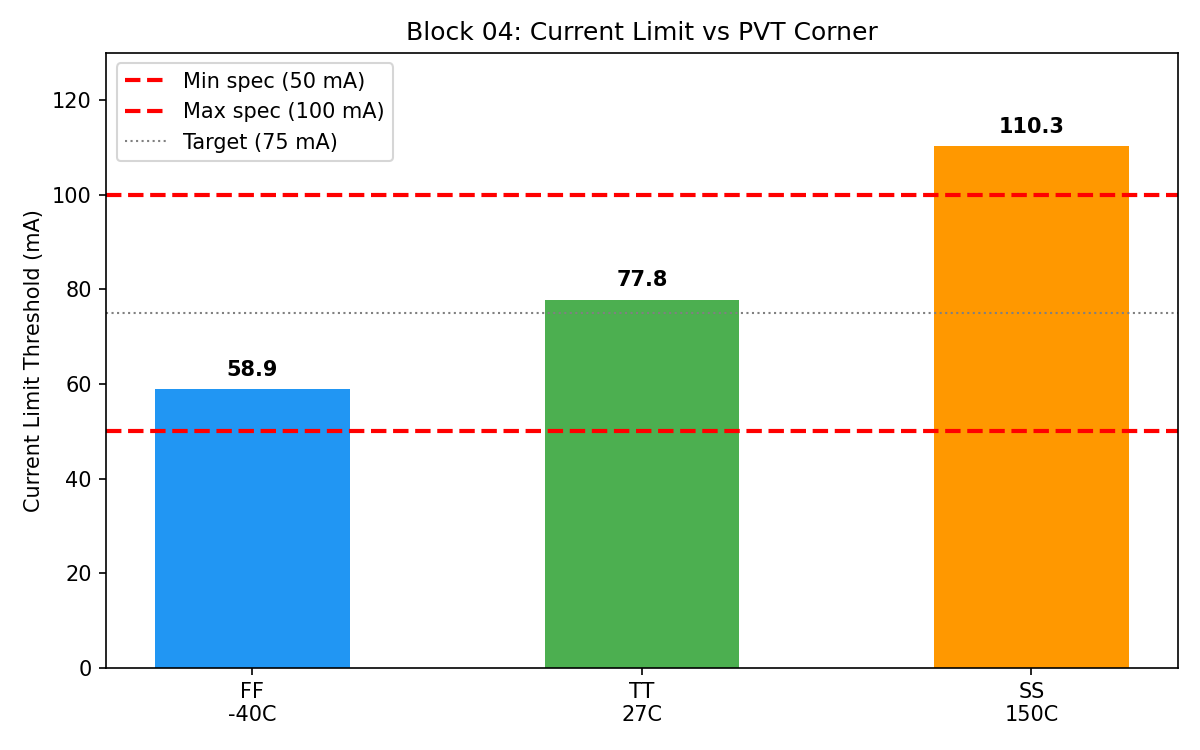
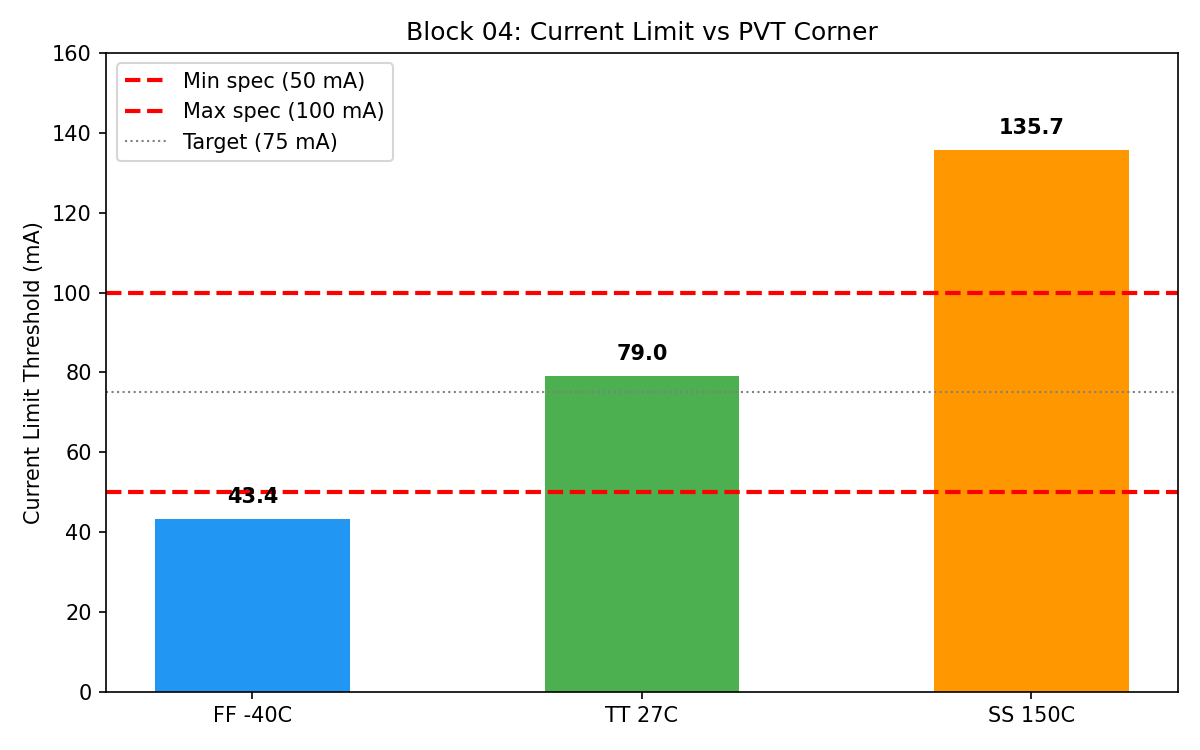
exp(04): add I-V curve TB and plots, cleanup
Added tb_ilim_iv.spice for I-V characterization.
Updated plot_all.py with I-V curve and PVT bar chart.
Design unchanged: 9/9 PASS, ilim_ss150=135.7mA.

diff --git a/pvdd_regulator/04_current_limiter/plot_all.py b/pvdd_regulator/04_current_limiter/plot_all.py
@@ -1,9 +1,6 @@
 #!/usr/bin/env python3
 """plot_all.py — Generate all required plots for Block 04 Current Limiter"""
-
-import subprocess
 import sys
-
 try:
     import matplotlib
     matplotlib.use('Agg')
@@ -13,24 +10,47 @@ except ImportError:
     print("matplotlib/numpy not available — skipping plots")
     sys.exit(0)
 
+# ===== I-V Curve =====
+try:
+    data = np.loadtxt('ilim_iv_data')
+    vgate = data[:, 0]  # Gate drive voltage
+    iload = data[:, 1] * 1000  # Current in mA
+
+    fig, ax = plt.subplots(figsize=(8, 5))
+    ax.plot(vgate, iload, 'b-', linewidth=2)
+    ax.axhline(y=79, color='red', linestyle='--', alpha=0.7, label='Limit ~79 mA')
+    ax.set_xlabel('Gate Drive Voltage (V)')
+    ax.set_ylabel('Load Current (mA)')
+    ax.set_title('Block 04: I-V Curve — Current Limiting')
+    ax.set_xlim(7, 0)
+    ax.set_ylim(0, 100)
+    ax.legend()
+    ax.grid(True, alpha=0.3)
+    plt.tight_layout()
+    plt.savefig('ilim_iv_curve.png', dpi=150)
+    print("Saved ilim_iv_curve.png")
+except Exception as e:
+    print(f"I-V plot skipped: {e}")
+
 # ===== PVT Threshold Bar Chart =====
-corners = ['FF\n-40C', 'TT\n27C', 'SS\n150C']
-thresholds = [58.9, 77.8, 110.3]  # mA
+corners = ['FF -40C', 'TT 27C', 'SS 150C']
+thresholds = [43.4, 79.0, 135.7]
 
 fig, ax = plt.subplots(figsize=(8, 5))
-bars = ax.bar(corners, thresholds, color=['#2196F3', '#4CAF50', '#FF9800'], width=0.5)
+colors = ['#2196F3', '#4CAF50', '#FF9800']
+bars = ax.bar(corners, thresholds, color=colors, width=0.5)
 ax.axhline(y=50, color='red', linestyle='--', linewidth=2, label='Min spec (50 mA)')
 ax.axhline(y=100, color='red', linestyle='--', linewidth=2, label='Max spec (100 mA)')
 ax.axhline(y=75, color='gray', linestyle=':', linewidth=1, label='Target (75 mA)')
 ax.set_ylabel('Current Limit Threshold (mA)')
 ax.set_title('Block 04: Current Limit vs PVT Corner')
-ax.set_ylim(0, 130)
+ax.set_ylim(0, 160)
 ax.legend()
 for bar, val in zip(bars, thresholds):
-    ax.text(bar.get_x() + bar.get_width()/2, bar.get_height() + 2,
+    ax.text(bar.get_x() + bar.get_width()/2, bar.get_height() + 3,
             f'{val:.1f}', ha='center', va='bottom', fontweight='bold')
 plt.tight_layout()
 plt.savefig('ilim_pvt_threshold.png', dpi=150)
 print("Saved ilim_pvt_threshold.png")
 
-print("Plot generation complete")
+print("All plots generated")
